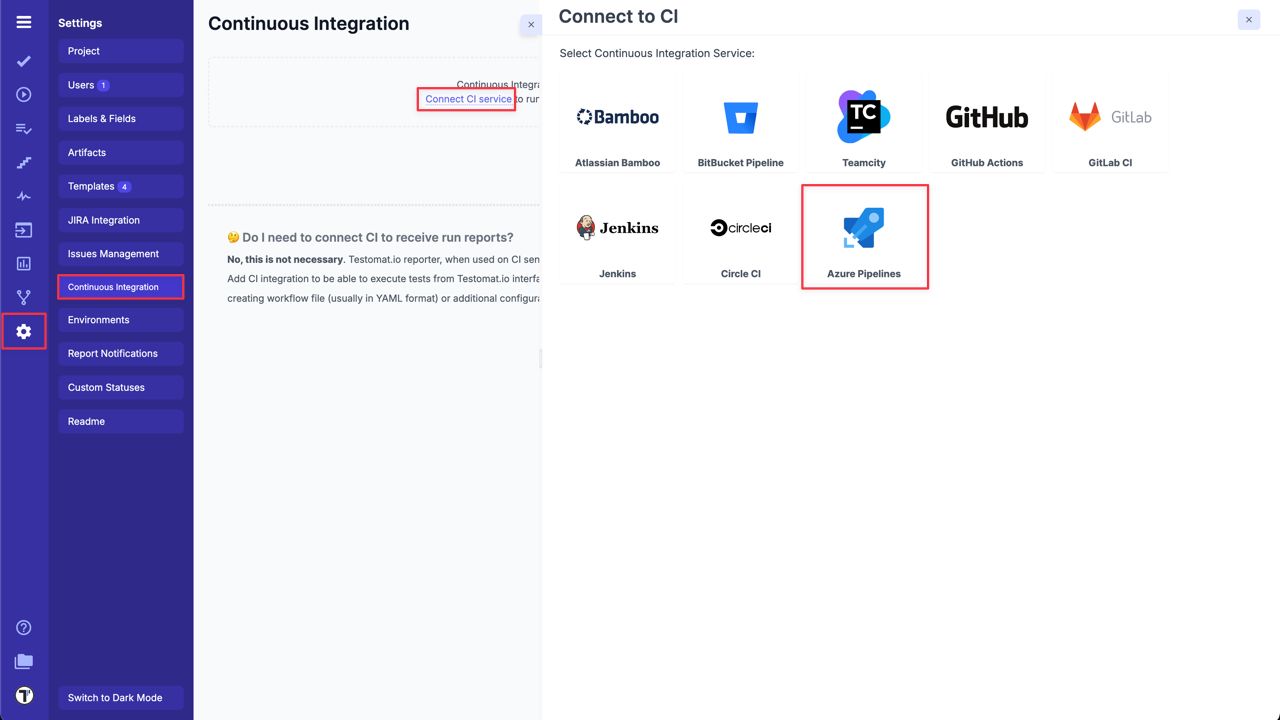
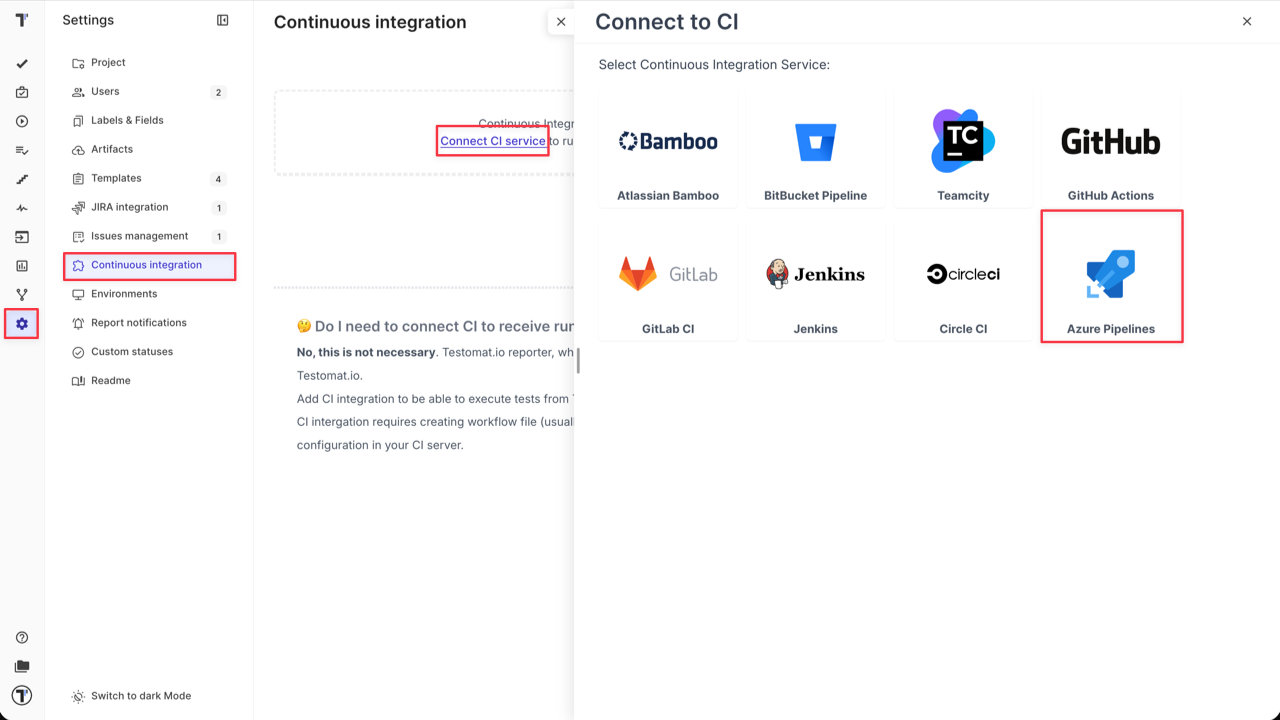
Azure CI/CD self hosted

diff --git a/src/content/docs/integrations/continuous-integration/azure.md b/src/content/docs/integrations/continuous-integration/azure.md
@@ -23,7 +23,7 @@ And follow the instructions below:
 
 ![Testomatio - Azure Pipeline](./images/Azure_D_2.png)
 
-3. Create a new **CI connection** inside your project in Testomat.io: go to **'Settings' -> 'Continuous Integration' ->** click **'Connect to CI'** select **'Azure Pipeline'**
+3. Create a new **CI connection** inside your project in Testomat.io: go to **'Settings' -> 'Continuous Integration' ->** click **'Connect to CI'** select **'Azure Pipelines'**
 
 ![Testomatio - Azure Pipeline](./images/Azure_D_3.png)
 
@@ -33,6 +33,7 @@ And follow the instructions below:
 - `Azure DevOps Organization`.
 - `Azure DevOps Project`.
 - `Azure DevOps Pipeline Id` - open a pipeline and copy a number value of `definitionId` param from URL (in our case `definitionId = 1`).
+- `Azure Server URL` - in case you use self-hosted Azure DevOps Server instead of Azure Cloud.
 
 ![Testomatio - Azure Pipeline](./images/Azure_D_4.png)
 
